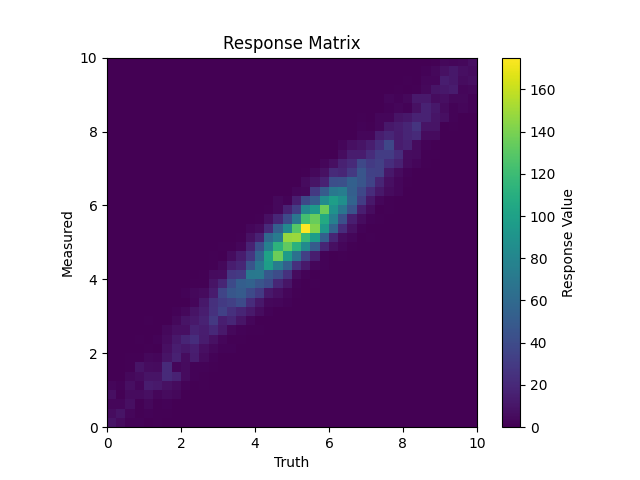
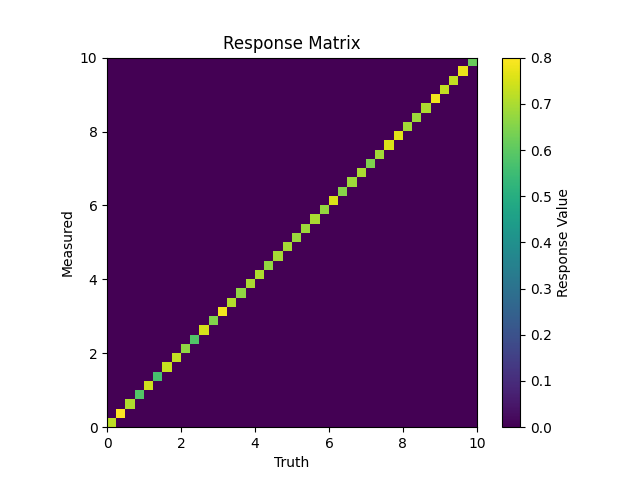
Added new converters and removed useless normalization procedure.

diff --git a/src/QUnfold/core/QUnfoldQUBO.py b/src/QUnfold/core/QUnfoldQUBO.py
@@ -35,42 +35,6 @@ class QUnfoldQUBO:
         self.lam = lam
         self.reg = reg
 
-        # Normalize the response
-        if not self._is_normalized(self.R):
-            self.R = self._normalize(self.R)
-
-    @staticmethod
-    def _is_normalized(matrix):
-        """
-        Check if the matrix is normalized.
-
-        Parameters:
-            matrix (numpy.ndarray): The matrix to check.
-
-        Returns:
-            bool: True if the matrix is normalized, False otherwise.
-        """
-
-        return np.allclose(np.sum(matrix, axis=1), 1)
-
-    @staticmethod
-    def _normalize(matrix):
-        """
-        Normalize the matrix.
-
-        Parameters:
-            matrix (numpy.ndarray): The matrix to normalize.
-
-        Returns:
-            numpy.ndarray: The normalized matrix.
-        """
-
-        row_sums = np.sum(matrix, axis=1)
-        mask = np.nonzero(row_sums)
-        norm_matrix = np.copy(matrix)
-        norm_matrix[mask] /= row_sums[mask][:, np.newaxis]
-        return norm_matrix
-
     @staticmethod
     def _get_laplacian(dim):
         """
@@ -205,3 +169,4 @@ class QUnfoldQUBO:
         decoded_sampleset = model.decode_sampleset(sampleset)
         best_sample = min(decoded_sampleset, key=lambda s: s.energy)
         return np.array([best_sample.subh[label] for label in labels])
+

diff --git a/examples/standard.py b/examples/standard.py
@@ -19,7 +19,7 @@ import ROOT as r
 
 sys.path.append(".")
 from studies.functions.generator import generate
-from studies.functions.ROOT_converter import TH1_to_array, TH2_to_array
+from studies.functions.ROOT_converter import TH1_to_array, TMatrix_to_array
 
 # QUnfold modules
 from QUnfold import QUnfoldQUBO
@@ -39,14 +39,14 @@ def main():
     min_bin = 0
     bins = 40
     bias = 0.0
-    smearing = 0.5
-    eff = 1.0
+    smearing = 0.0
+    eff = 0.7
     truth, meas, response = generate(
         "breit-wigner", bins, min_bin, max_bin, samples, bias, smearing, eff
     )
     truth = TH1_to_array(truth, overflow=False)
     meas = TH1_to_array(meas, overflow=False)
-    response = TH2_to_array(response.HresponseNoOverflow(), overflow=False)
+    response = TMatrix_to_array(response.Mresponse(norm=True))
 
     # Unfold with simulated annealing
     unfolder = QUnfoldQUBO(response=response, meas=meas, lam=0.1)

diff --git a/studies/functions/ROOT_converter.py b/studies/functions/ROOT_converter.py
@@ -117,3 +117,33 @@ def TH2_to_array(histo, overflow=False):
         ]
     )
 
+
+def TVector_to_array(vector):
+    """
+    Convert a ROOT.TVectorD object into a numpy.array.
+
+    Parameters:
+        vector (ROOT.TVectorD): input TVectorD object to be converted.
+
+    Returns:
+        numpy.array: array representing the content of the TVectorD.
+    """
+    return np.array([vector[i] for i in range(vector.GetNoElements())])
+
+
+def TMatrix_to_array(matrix):
+    """
+    Convert a ROOT.TMatrixD object into a numpy.array.
+
+    Parameters:
+        matrix (ROOT.TMatrixD): input TMatrixD object to be converted.
+
+    Returns:
+        numpy.array: array representing the content of the TMatrixD.
+    """
+    return np.array(
+        [
+            [matrix[i][j] for j in range(matrix.GetNcols())]
+            for i in range(matrix.GetNrows())
+        ]
+    )
